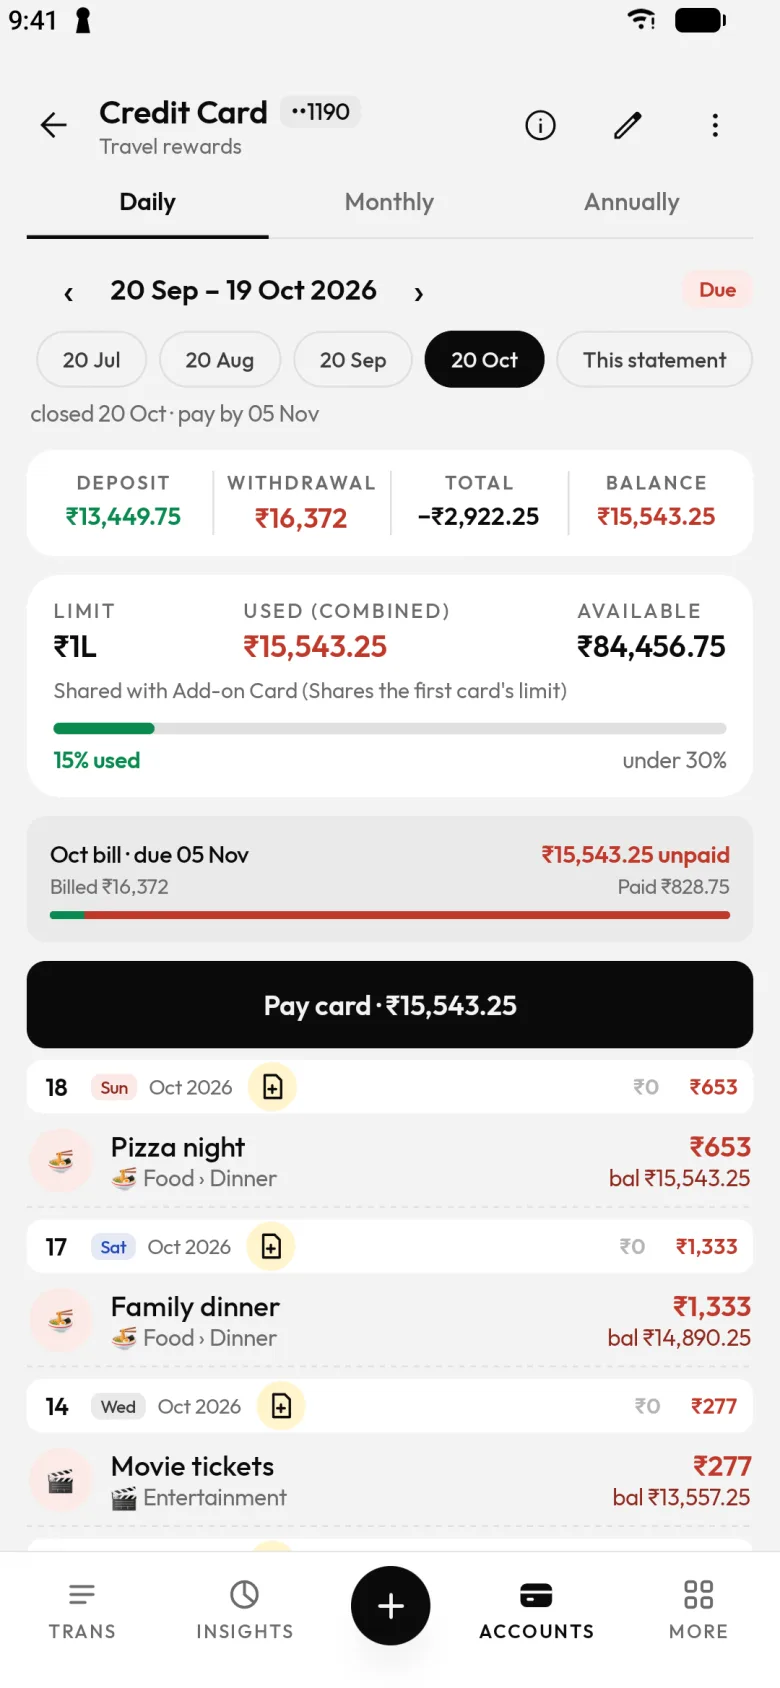
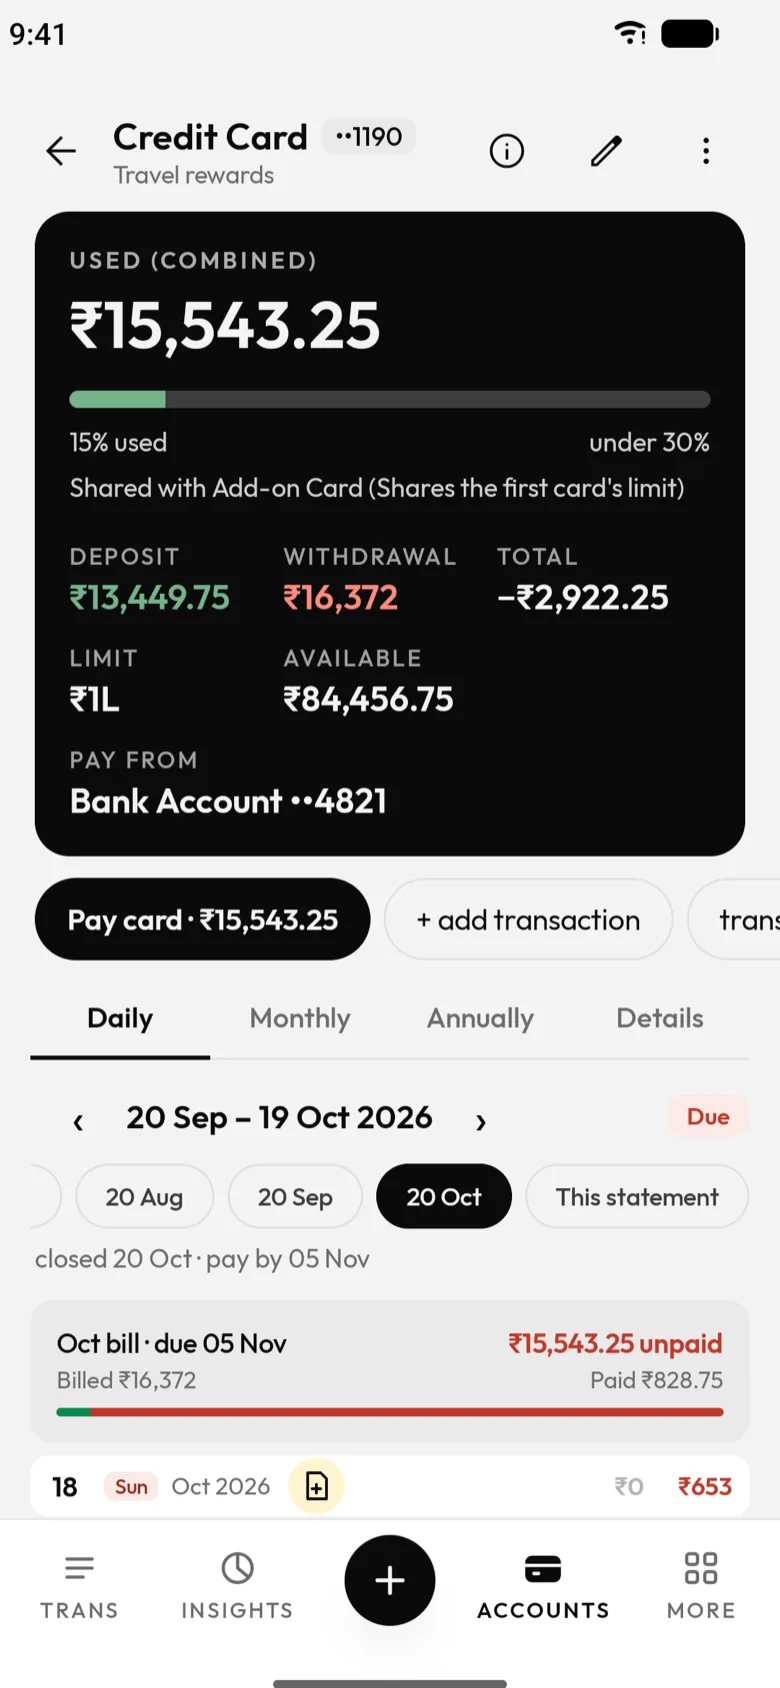
Card statement screenshot and texts for the new summary card

diff --git a/index.html b/index.html
@@ -361,8 +361,8 @@ footer .data{max-width:1240px;margin:0 auto 18px;font-size:13px;line-height:1.6;
 <li><a href="#screens" class="card" data-i="5"><span class="ic"><svg class="line" width="24" height="24" viewBox="0 0 24 24" fill="none" stroke="currentColor" stroke-width="1.5" aria-hidden="true"><path d="M17 2l4 4-4 4"/><path d="M3 11V9a3 3 0 0 1 3-3h15M7 22l-4-4 4-4"/><path d="M21 13v2a3 3 0 0 1-3 3H3"/></svg><svg class="fill" width="24" height="24" viewBox="0 0 24 24" fill="currentColor" stroke="none" aria-hidden="true"><path d="M17 2l4 4-4 4M3 11V9a3 3 0 0 1 3-3h15M7 22l-4-4 4-4M21 13v2a3 3 0 0 1-3 3H3" fill="none" stroke="currentColor" stroke-width="2.6" stroke-linecap="round" stroke-linejoin="round"/></svg></span><span class="t">Repeat</span><span class="d">Rent, subscriptions and salary add themselves on schedule, and you see what’s coming up next.</span></a></li>
 <li><a href="#screens" class="card" data-i="6"><span class="ic"><svg class="line" width="24" height="24" viewBox="0 0 24 24" fill="none" stroke="currentColor" stroke-width="1.5" aria-hidden="true"><rect x="3" y="5" width="18" height="16" rx="2"/><path d="M3 10h18M8 3v4M16 3v4"/></svg><svg class="fill" width="24" height="24" viewBox="0 0 24 24" fill="currentColor" stroke="none" aria-hidden="true"><path d="M8 2.8h1.6V5h4.8V2.8H16V5h3a2 2 0 0 1 2 2v2H3V7a2 2 0 0 1 2-2h3z"/><path d="M3 10.5h18V19a2 2 0 0 1-2 2H5a2 2 0 0 1-2-2z"/></svg></span><span class="t">Installments</span><span class="d">Split a big buy into parts: see how many are paid and when the next one is due.</span></a></li>
 <li><a href="#screens" class="card" data-i="7"><span class="ic"><svg class="line" width="24" height="24" viewBox="0 0 24 24" fill="none" stroke="currentColor" stroke-width="1.5" aria-hidden="true"><path d="M4 20V10M10 20V4M16 20v-7M22 20H2"/></svg><svg class="fill" width="24" height="24" viewBox="0 0 24 24" fill="currentColor" stroke="none" aria-hidden="true"><rect x="3" y="11" width="4.6" height="10" rx="1.2"/><rect x="9.7" y="3" width="4.6" height="18" rx="1.2"/><rect x="16.4" y="8" width="4.6" height="13" rx="1.2"/></svg></span><span class="t">Budgets</span><span class="d">A limit per category with clear over and under bars.</span></a></li>
-<li><a href="#screens" class="card" data-i="8"><span class="ic"><svg class="line" width="24" height="24" viewBox="0 0 24 24" fill="none" stroke="currentColor" stroke-width="1.5" aria-hidden="true"><rect x="3" y="6" width="18" height="13" rx="2"/><path d="M3 10h18M16 14h2"/></svg><svg class="fill" width="24" height="24" viewBox="0 0 24 24" fill="currentColor" stroke="none" aria-hidden="true"><path d="M5 5h14a2.5 2.5 0 0 1 2.5 2.5V9h-19V7.5A2.5 2.5 0 0 1 5 5z"/><path d="M2.5 11.5h19v5A2.5 2.5 0 0 1 19 19H5a2.5 2.5 0 0 1-2.5-2.5z"/></svg></span><span class="t">Accounts and cards</span><span class="d">Groups, balances that add up, card statements and transfers.</span></a></li>
-<li><a href="#screens" class="card" data-i="9"><span class="ic"><svg class="line" width="24" height="24" viewBox="0 0 24 24" fill="none" stroke="currentColor" stroke-width="1.5" aria-hidden="true"><path d="M6 3h12v18l-3-2-3 2-3-2-3 2z"/><path d="M9 8h6M9 12h6"/></svg><svg class="fill" width="24" height="24" viewBox="0 0 24 24" fill="currentColor" stroke="none" aria-hidden="true"><path d="M6 3h12v18l-3-2-3 2-3-2-3 2z"/><path d="M9 8h6M9 12h6" stroke="#fff" stroke-width="1.8" stroke-linecap="round" fill="none"/></svg></span><span class="t">Card statements</span><span class="d">Each card has its own statements: limit, billed and unpaid, and pay by the due date.</span></a></li>
+<li><a href="#screens" class="card" data-i="8"><span class="ic"><svg class="line" width="24" height="24" viewBox="0 0 24 24" fill="none" stroke="currentColor" stroke-width="1.5" aria-hidden="true"><rect x="3" y="6" width="18" height="13" rx="2"/><path d="M3 10h18M16 14h2"/></svg><svg class="fill" width="24" height="24" viewBox="0 0 24 24" fill="currentColor" stroke="none" aria-hidden="true"><path d="M5 5h14a2.5 2.5 0 0 1 2.5 2.5V9h-19V7.5A2.5 2.5 0 0 1 5 5z"/><path d="M2.5 11.5h19v5A2.5 2.5 0 0 1 19 19H5a2.5 2.5 0 0 1-2.5-2.5z"/></svg></span><span class="t">Accounts and cards</span><span class="d">Groups, balances that add up, a summary card on every account, card statements and transfers.</span></a></li>
+<li><a href="#screens" class="card" data-i="9"><span class="ic"><svg class="line" width="24" height="24" viewBox="0 0 24 24" fill="none" stroke="currentColor" stroke-width="1.5" aria-hidden="true"><path d="M6 3h12v18l-3-2-3 2-3-2-3 2z"/><path d="M9 8h6M9 12h6"/></svg><svg class="fill" width="24" height="24" viewBox="0 0 24 24" fill="currentColor" stroke="none" aria-hidden="true"><path d="M6 3h12v18l-3-2-3 2-3-2-3 2z"/><path d="M9 8h6M9 12h6" stroke="#fff" stroke-width="1.8" stroke-linecap="round" fill="none"/></svg></span><span class="t">Card statements</span><span class="d">Each card shows what you owe against its limit, every statement billed and unpaid, and a Pay card button by the due date.</span></a></li>
 <li><a href="#screens" class="card" data-i="10"><span class="ic"><svg class="line" width="24" height="24" viewBox="0 0 24 24" fill="none" stroke="currentColor" stroke-width="1.5" aria-hidden="true"><rect x="3" y="4" width="8" height="7" rx="1.5"/><rect x="13" y="4" width="8" height="7" rx="1.5"/><rect x="3" y="13" width="18" height="7" rx="1.5"/></svg><svg class="fill" width="24" height="24" viewBox="0 0 24 24" fill="currentColor" stroke="none" aria-hidden="true"><rect x="3" y="4" width="8" height="7" rx="1.8"/><rect x="13" y="4" width="8" height="7" rx="1.8"/><rect x="3" y="13" width="18" height="7" rx="1.8"/></svg></span><span class="t">Accounts and groups</span><span class="d">Cash, bank, cards and more in groups: add, hide, reorder and edit.</span></a></li>
 <li><a href="#screens" class="card" data-i="11"><span class="ic"><svg class="line" width="24" height="24" viewBox="0 0 24 24" fill="none" stroke="currentColor" stroke-width="1.5" aria-hidden="true"><path d="M12 3l4 7H8z"/><circle cx="7" cy="17" r="3.5"/><rect x="14" y="13.5" width="7" height="7" rx="1.5"/></svg><svg class="fill" width="24" height="24" viewBox="0 0 24 24" fill="currentColor" stroke="none" aria-hidden="true"><path d="M12 2.8l4.6 7.6H7.4z"/><circle cx="7" cy="17" r="3.9"/><rect x="13.5" y="13" width="8" height="8" rx="1.8"/></svg></span><span class="t">Categories</span><span class="d">Categories with subcategories for expense and income, and your own to add.</span></a></li>
 <li><a href="#screens" class="card" data-i="12"><span class="ic"><svg class="line" width="24" height="24" viewBox="0 0 24 24" fill="none" stroke="currentColor" stroke-width="1.5" aria-hidden="true"><path d="M5 4h14v11l-5 5H5z"/><path d="M14 20v-5h5"/></svg><svg class="fill" width="24" height="24" viewBox="0 0 24 24" fill="currentColor" stroke="none" aria-hidden="true"><path d="M5 4h14v11h-5v5H5z"/><path d="M14.5 15.5H19L14.5 20z"/></svg></span><span class="t">Notes</span><span class="d">Memos for any day, like a shopping list or a trip plan, as coloured notes you can pin.</span></a></li>
@@ -387,7 +387,7 @@ footer .data{max-width:1240px;margin:0 auto 18px;font-size:13px;line-height:1.6;
 <div class="slide"><div class="phone"><img src="screens/15-installments.webp" width="260" height="564" alt="Installments: a purchase split into parts, with how many are paid" loading="lazy"></div></div>
 <div class="slide"><div class="phone"><img src="screens/07-budgets.webp" width="260" height="564" alt="Budgets: this month’s limits per category" loading="lazy"></div></div>
 <div class="slide"><div class="phone"><img src="screens/08-accounts.webp" width="260" height="564" alt="Accounts: groups and balances" loading="lazy"></div></div>
-<div class="slide"><div class="phone"><img src="screens/16-card-statement.webp" width="260" height="564" alt="Card statement: limit, billed and unpaid amounts, and the bill due date" loading="lazy"></div></div>
+<div class="slide"><div class="phone"><img src="screens/16-card-statement.webp" width="260" height="564" alt="Credit card page: the amount used against its limit, the billed and unpaid amounts, and the Pay card button" loading="lazy"></div></div>
 <div class="slide"><div class="phone"><img src="screens/18-accounts-and-groups.webp" width="260" height="564" alt="Accounts and groups: add, hide and reorder accounts" loading="lazy"></div></div>
 <div class="slide"><div class="phone"><img src="screens/17-categories.webp" width="260" height="564" alt="Categories: main categories with subcategories" loading="lazy"></div></div>
 <div class="slide"><div class="phone"><img src="screens/14-notes.webp" width="260" height="564" alt="Notes: coloured memos for days, with pinned notes" loading="lazy"></div></div>

diff --git a/site.js b/site.js
@@ -16,8 +16,8 @@
     ['Repeat', 'Rent, subscriptions and salary add themselves on schedule, and you see what’s coming up next.'],
     ['Installments', 'Split a big buy into parts: see how many are paid and when the next one is due.'],
     ['Budgets', 'A limit per category with clear over and under bars.'],
-    ['Accounts and cards', 'Groups, balances that add up, card statements and transfers.'],
-    ['Card statements', 'Each card has its own statements: limit, billed and unpaid, and pay by the due date.'],
+    ['Accounts and cards', 'Groups, balances that add up, a summary card on every account, card statements and transfers.'],
+    ['Card statements', 'Each card shows what you owe against its limit, every statement billed and unpaid, and a Pay card button by the due date.'],
     ['Accounts and groups', 'Cash, bank, cards and more in groups: add, hide, reorder and edit.'],
     ['Categories', 'Categories with subcategories for expense and income, and your own to add.'],
     ['Notes', 'Memos for any day, like a shopping list or a trip plan, as coloured notes you can pin.'],
